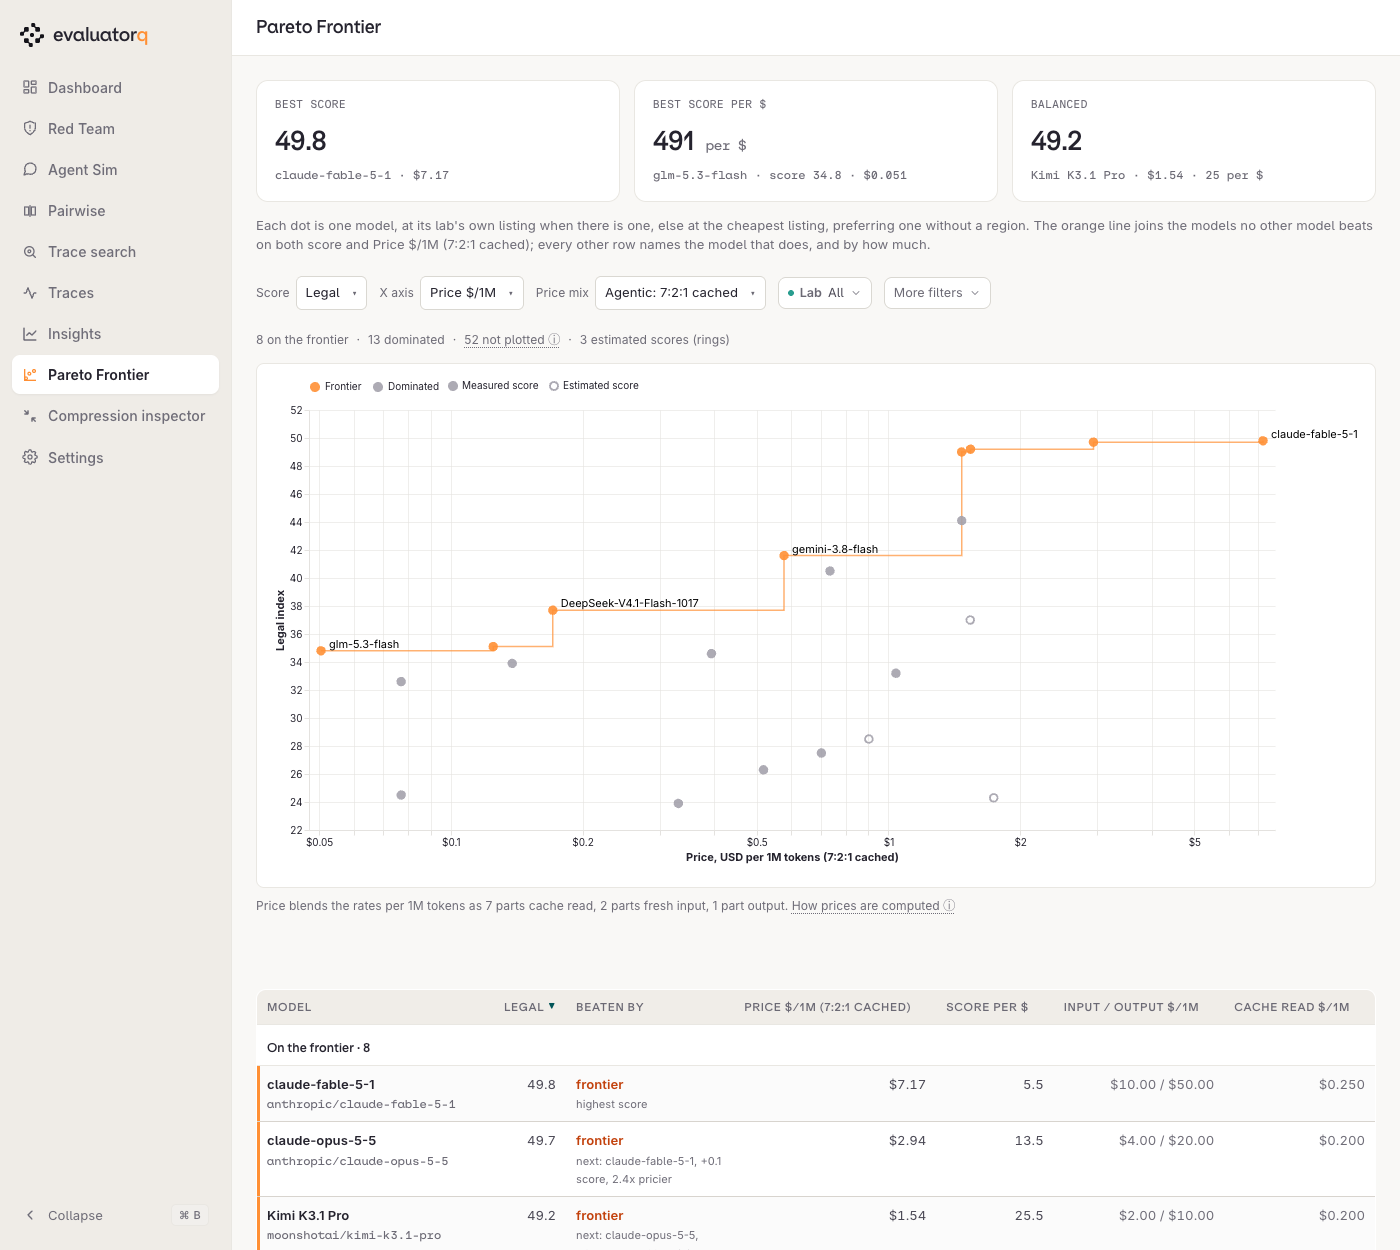
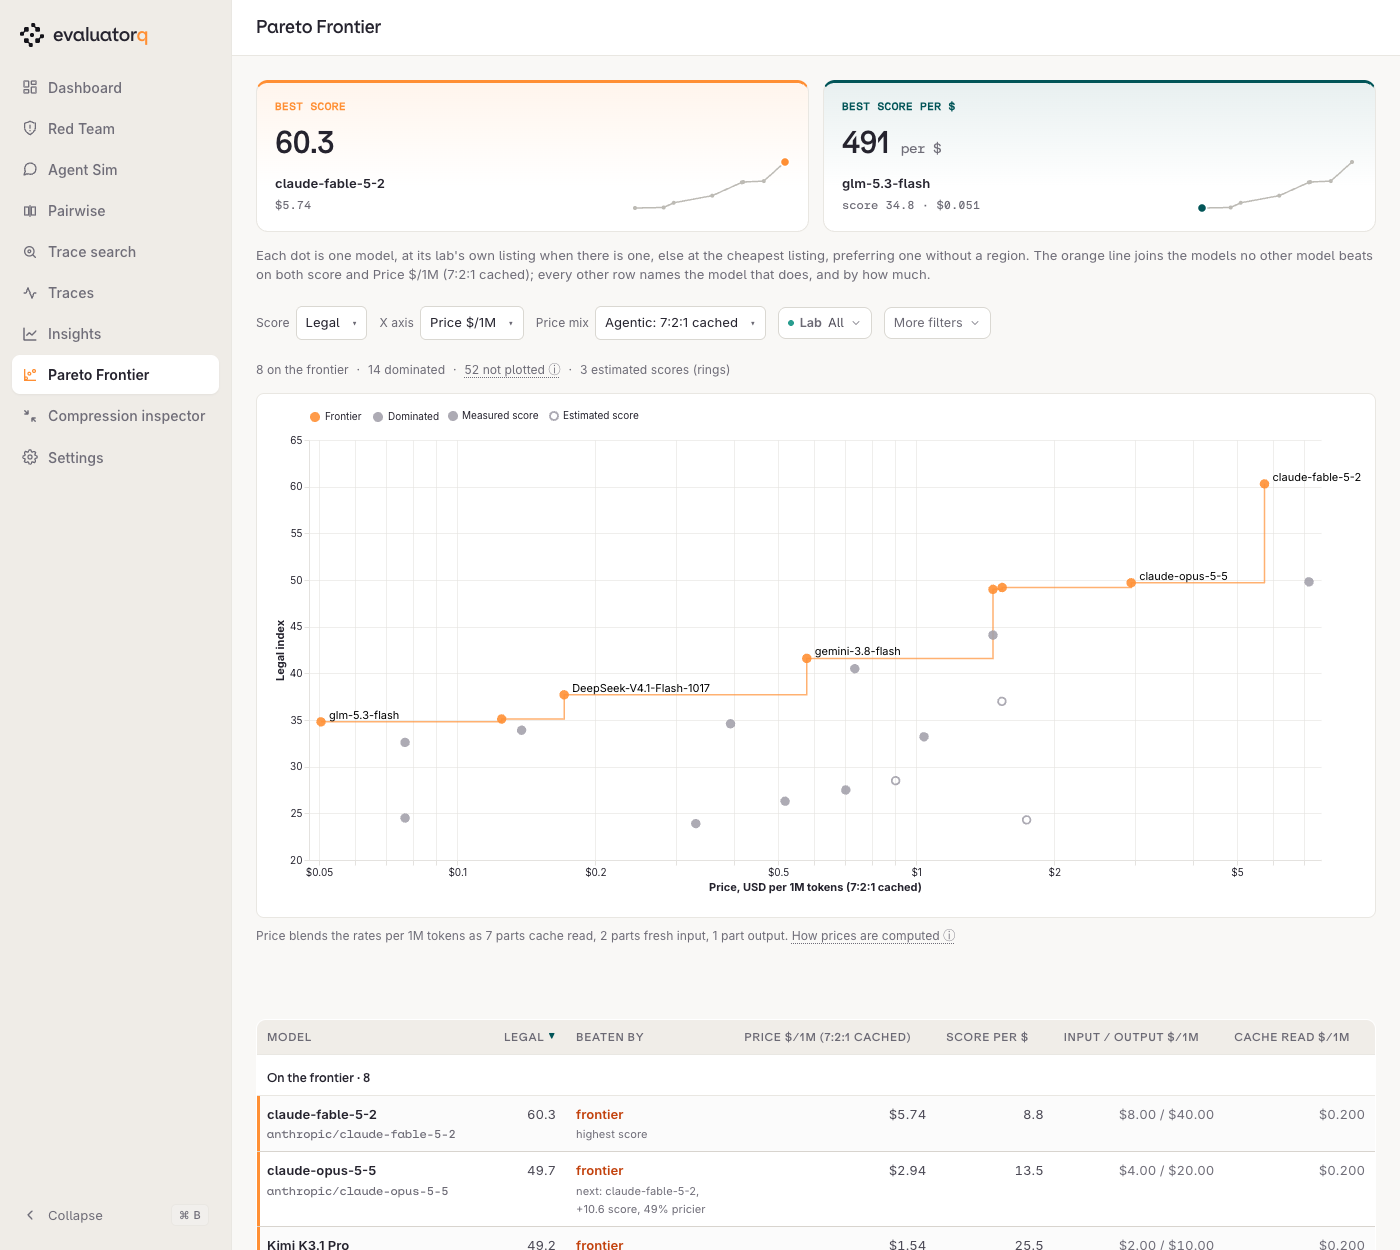
feat(dashboard): give the Pareto answer cards an accent colour and a frontier sketch
Each card gets its own accent stripe and tint, names its model on its own line, and draws a small sketch of the frontier with the card's model marked. Screenshots retaken against today's catalogue.

diff --git a/src/evaluatorq/dashboard/models_views.py b/src/evaluatorq/dashboard/models_views.py
@@ -37,7 +37,7 @@ from evaluatorq.common.reports import esc
 from evaluatorq.common.reports.vega import render_embed, vl_frontier_scatter
 from evaluatorq.dashboard import model_choices
 from evaluatorq.dashboard.auth import auth_or_reason
-from evaluatorq.dashboard.controls import FILTER_CHEVRON, chip, dropdown, pick_row, range_control, rich_pick, stat_tile
+from evaluatorq.dashboard.controls import FILTER_CHEVRON, chip, dropdown, pick_row, range_control, rich_pick
 from evaluatorq.dashboard.report_kit import tag
 from evaluatorq.dashboard.shell import page
 from evaluatorq.dashboard.tables import flipped, sortable_th
@@ -781,50 +781,68 @@ def _balanced(result: ParetoResult, best: ParetoPoint, value: ParetoPoint | None
     return knee if knee is not None and gap(knee) > 0 else None
 
 
+def _spark(result: ParetoResult, mark: ParetoPoint) -> str:
+    """A small sketch of the frontier with *mark* highlighted, on the chart's own axes (log price, linear speed)."""
+    pts = sorted(result.frontier, key=lambda p: p.x)
+    log = result.x == 'price' and all(p.x > 0 for p in pts)
+    xs = [math.log(p.x) if log else p.x for p in pts]
+    lo_x, hi_x = min(xs), max(xs)
+    lo_y, hi_y = min(p.score for p in pts), max(p.score for p in pts)
+    w, h, pad = 160.0, 56.0, 5.0
+
+    def at(x: float, y: float) -> tuple[float, float]:
+        fx = (x - lo_x) / (hi_x - lo_x) if hi_x > lo_x else 0.5
+        fy = (y - lo_y) / (hi_y - lo_y) if hi_y > lo_y else 0.5
+        return pad + fx * (w - 2 * pad), h - pad - fy * (h - 2 * pad)
+
+    coords = [at(x, p.score) for x, p in zip(xs, pts, strict=True)]
+    line = ' '.join(f'{x:.1f},{y:.1f}' for x, y in coords)
+    dots = ''.join(f'<circle cx="{x:.1f}" cy="{y:.1f}" r="2"/>' for x, y in coords)
+    mx, my = coords[pts.index(mark)]
+    return (
+        f'<svg class="models-card-spark" viewBox="0 0 {w:g} {h:g}" aria-hidden="true">'
+        f'<polyline points="{line}"/><g>{dots}</g>'
+        f'<circle class="is-mark" cx="{mx:.1f}" cy="{my:.1f}" r="4.5"/></svg>'
+    )
+
+
+def _card(kind: str, label: str, value: str, p: ParetoPoint, result: ParetoResult, sub: str, unit: str = '') -> str:
+    """One answer card: an accent stripe per kind, the value, the model by name and where it sits on the frontier."""
+    unit_html = f'<span class="stat-unit">{esc(unit)}</span>' if unit else ''
+    return (
+        f'<div class="stat-tile models-card is-{kind}"><div class="models-card-head">'
+        f'<div class="stat-label">{esc(label)}</div>{_spark(result, p)}</div>'
+        f'<div class="stat-value">{esc(value)}{unit_html}</div>'
+        f'<div class="models-card-model">{esc(_name(p.model))}</div><div class="stat-sub">{esc(sub)}</div></div>'
+    )
+
+
 def _answer_cards(result: ParetoResult, min_score: float) -> str:
     """Three quick answers: the best score, the best score per dollar and, on the price axis, the knee of the
     frontier between them; else the best x at the floor."""
     if not result.frontier:
         return ''
     best = max(result.frontier, key=lambda p: p.score)
-    cards = [
-        stat_tile(label='Best score', value=f'{best.score:.1f}', sub=f'{_name(best.model)} · {_x_text(best, result)}')
-    ]
+    cards = [_card('score', 'Best score', f'{best.score:.1f}', best, result, _x_text(best, result))]
     valued = [p for p in result.frontier if p.pareto_score is not None]
     value = max(valued, key=lambda p: cast('float', p.pareto_score), default=None)
     if value is not None:
         per_dollar = cast('float', value.pareto_score)
-        cards.append(
-            stat_tile(
-                label='Best score per $',
-                # Whole numbers would print a score per $ under 0.5 as 0, so small values keep one decimal.
-                value=f'{per_dollar:,.0f}' if per_dollar >= 10 else f'{per_dollar:.1f}',
-                unit=' per $',
-                sub=f'{_name(value.model)} · score {value.score:.1f} · {_x_text(value, result)}',
-            )
-        )
+        # Whole numbers would print a score per $ under 0.5 as 0, so small values keep one decimal.
+        shown = f'{per_dollar:,.0f}' if per_dollar >= 10 else f'{per_dollar:.1f}'
+        sub = f'score {value.score:.1f} · {_x_text(value, result)}'
+        cards.append(_card('value', 'Best score per $', shown, value, result, sub, unit=' per $'))
     balanced = _balanced(result, best, value)
     if balanced is not None:
-        cards.append(
-            stat_tile(
-                label='Balanced',
-                value=f'{balanced.score:.1f}',
-                sub=f'{_name(balanced.model)} · {_x_text(balanced, result)} · '
-                f'{cast("float", balanced.pareto_score):,.0f} per $',
-            )
-        )
+        sub = f'{_x_text(balanced, result)} · {cast("float", balanced.pareto_score):,.0f} per $'
+        cards.append(_card('balanced', 'Balanced', f'{balanced.score:.1f}', balanced, result, sub))
         return f'<div class="stat-band models-cards">{"".join(cards)}</div>'
     cheapest = min(result.frontier, key=lambda p: result.x_spec.best_first(p.x))
     # A card naming the same model as another one adds nothing: one frontier model would fill every card.
     if cheapest is not value and cheapest is not best:
         label = _AXIS_TEXT[result.x].best + (f' at score ≥ {min_score:g}' if min_score > 0 else '')
-        cards.append(
-            stat_tile(
-                label=label,
-                value=_x_text(cheapest, result),
-                sub=f'{_name(cheapest.model)} · score {cheapest.score:.1f}',
-            )
-        )
+        sub = f'score {cheapest.score:.1f}'
+        cards.append(_card('cheapest', label, _x_text(cheapest, result), cheapest, result, sub))
     return f'<div class="stat-band models-cards">{"".join(cards)}</div>'
 
 

diff --git a/tests/unit/test_models.py b/tests/unit/test_models.py
@@ -816,21 +816,23 @@ class TestDashboardPage:
     ) -> None:
         tiny = model('z/tiny', 10.5, 0.05, 0.05)
         text = self._models_text(client, monkeypatch, [*fake_catalogue, tiny], '/models')
-        assert text.count('class="stat-tile"') == 3
+        assert text.count('class="stat-tile models-card') == 3
         assert 'Best score' in text and '50.0' in text and 'a/strong' in text
         # c/cheap: (20 - 10) / $0.35 blended under the default mix = 28.6, shown as 29.
         assert 'per $' in text
-        assert re.search(r'Best score per \$</div><div class="stat-value">29<span class="stat-unit"> per \$</span>', text)
+        assert re.search(r'Best score per \$</div><svg[^>]*>.*?</svg></div><div class="stat-value">29<span class="stat-unit"> per \$</span>', text)
         # b/mid sits above the line from c/cheap to a/strong, so the third card is the knee, not the cheapest model.
         cards = text.split('models-cards', 1)[1].split('models-intro', 1)[0]
         assert 'Balanced' in cards and 'b/mid' in cards and 'Cheapest' not in cards
+        # Each card sketches the frontier and marks its own model once.
+        assert cards.count('models-card-spark') == 3 and cards.count('class="is-mark"') == 3
 
     def test_balanced_card_names_the_knee_when_the_cheapest_is_the_best_value(
         self, client: Any, monkeypatch: pytest.MonkeyPatch, fake_catalogue: list[ScoredModel]
     ) -> None:
         text = self._models_text(client, monkeypatch, fake_catalogue, '/models')
         cards = text.split('models-cards', 1)[1].split('models-intro', 1)[0]
-        assert cards.count('class="stat-tile"') == 3
+        assert cards.count('class="stat-tile models-card') == 3
         assert 'Balanced' in cards and 'b/mid' in cards and 'Cheapest' not in cards
 
     def test_balanced_is_the_frontier_model_furthest_above_the_line(self) -> None:
@@ -1162,7 +1164,7 @@ class TestDashboardPage:
     ) -> None:
         only = model('a/only', 40.0, 1.0, 1.0, output_tokens_per_second=80.0)
         text = self._models_text(client, monkeypatch, [only], '/models?x=output_speed')
-        assert text.count('class="stat-tile"') == 1
+        assert text.count('class="stat-tile models-card') == 1
         assert 'Fastest' not in text.split('models-cards', 1)[1].split('models-intro', 1)[0]
 
     def test_score_per_dollar_card_keeps_a_decimal_below_ten(
@@ -1171,7 +1173,7 @@ class TestDashboardPage:
         # (10.4 - 10) / $1.00 = 0.4 per $; whole numbers would show it as 0.
         near_floor = model('a/near', 10.4, 1.0, 1.0)
         text = self._models_text(client, monkeypatch, [near_floor], '/models')
-        assert re.search(r'Best score per \$</div><div class="stat-value">0\.4<span class="stat-unit"> per \$</span>', text)
+        assert re.search(r'Best score per \$</div><svg[^>]*>.*?</svg></div><div class="stat-value">0\.4<span class="stat-unit"> per \$</span>', text)
 
     def test_more_filters_labels_match_the_toolbar_labels(self) -> None:
         import tinycss2

diff --git a/src/evaluatorq/dashboard/styles.py b/src/evaluatorq/dashboard/styles.py
@@ -4250,6 +4250,19 @@ _MODELS_CSS = """
 /* Anchored under its button where supported; elsewhere the popover keeps the browser's centred default. */
 @supports (position-area: bottom) { .models-pop { inset: auto; margin: 6px 0 0; position-area: bottom span-right; position-try-fallbacks: flip-block, flip-inline; } }
 .models-cards { grid-template-columns: repeat(auto-fit, minmax(220px, 1fr)); }
+.models-card { --c: var(--orange-500); position: relative; overflow: hidden; border-top: 3px solid var(--c); background: linear-gradient(180deg, color-mix(in srgb, var(--c) 9%, var(--surface-card)) 0%, var(--surface-card) 70%); }
+.models-card.is-value { --c: var(--teal-600); }
+.models-card.is-balanced { --c: var(--amber-600); }
+.models-card.is-cheapest { --c: var(--green-600); }
+.models-card .stat-label { color: var(--c); font-weight: 600; }
+.models-card .stat-value { font-size: 30px; margin-top: 2px; }
+.models-card-head { display: flex; justify-content: space-between; align-items: flex-start; gap: 8px; }
+.models-card-spark { position: absolute; right: 18px; bottom: 18px; width: 160px; height: 56px; overflow: visible; }
+.models-card-spark polyline { fill: none; stroke: var(--border-strong); stroke-width: 1.5; stroke-linejoin: round; }
+.models-card-spark g circle { fill: var(--border-strong); }
+.models-card-spark .is-mark { fill: var(--c); stroke: var(--surface-card); stroke-width: 1.5; }
+.models-card-model { margin-top: 6px; font-size: 13px; font-weight: 600; color: var(--text-strong); white-space: nowrap; overflow: hidden; text-overflow: ellipsis; }
+.models-card .stat-sub { margin-top: 2px; }
 .models-group th { padding: 14px 10px 6px; font-size: 12px; font-weight: 600; color: var(--text-strong); background: none; text-align: left; border-bottom: 1px solid var(--border-subtle); text-transform: none; letter-spacing: 0; }
 .models-row.is-excluded td { color: var(--text-faint); }
 .models-alert { padding: 12px 14px; border: 1px solid var(--red-100); border-radius: 8px; background: var(--red-50); color: var(--red-700); font-size: 13px; }

diff --git a/docs/dashboard.md b/docs/dashboard.md
@@ -477,7 +477,7 @@ Download links respect the currently active filter state — the CSV/JSON export
 
 The **Pareto Frontier** page (`/models`) plots every model in the Orq catalogue as one dot, score against a blended price, and joins the models nothing beats with an orange line: the Pareto frontier. It reads the live catalogue, so it needs the same Orq account as trace search. Without one, the sidebar item is greyed out and the page says how to connect.
 
-Answer cards above the chart give the three quick answers, each for the models on the frontier:
+Answer cards above the chart give up to three quick answers, each for the models on the frontier. Each card names its model and carries a small sketch of the frontier with that model's dot marked in the card's colour:
 
 | Card | What it shows |
 |---|---|
@@ -488,7 +488,7 @@ Answer cards above the chart give the three quick answers, each for the models o
 
 **Score per $** is the points a model scores above the minimum score, divided by its blended price: `(score - minimum score) / price`. A model exactly at the minimum score gets 0, and with the minimum score at `0` it is the plain score per dollar. It is the same number as the `Score per $` column of `eq models pareto` (see [Model Pareto frontier](model-pareto.md#the-frontier-in-one-command)).
 
-![Pareto Frontier page on the default agentic price mix and minimum score of 10: the Best score, Best score per $ and Balanced cards above the chart, with estimated scores drawn as rings](assets/dashboard/models-01-frontier.png)
+![Pareto Frontier page on the default agentic price mix and minimum score of 10: the Best score and Best score per $ cards above the chart, each sketching the frontier with its model marked, and estimated scores drawn as rings](assets/dashboard/models-01-frontier.png)
 
 Filled dots are measured scores and rings are scores Orq estimated; the legend above the chart names both. Tick **Score per $ lines** in **More filters** to draw faint dashed guide curves on the price axis, each labelled with its Score per $, such as **50 per $**. Every model on one curve has the same Score per $, so a dot above a curve gives more score per dollar than the curve's label. The page draws every round value (1, 2, 5, 10, 20, 50 and so on) inside the range of the plotted models, up to eight; on a wider range it thins them to eight spread across it. The other x axes have no guides, because Score per $ is defined only against price.
 

diff --git a/docs/assets/dashboard/README.md b/docs/assets/dashboard/README.md
@@ -39,13 +39,13 @@ Older screenshots use `sim:refund-agent-fixed` — 10 personas × 5 scenarios = 
 
 ## Models — `models-*.png`
 
-Captured on 2026-11-23 against the live Orq catalogue (72 models after keeping one listing per model), 1400×1250 viewport, light theme, headless Chromium, with `eq dashboard` on the branch's defaults: agentic price mix (7:2:1 cached), minimum score 10. `models-01` and `models-02` show the top of the page; `models-03` is scrolled to the table.
+Captured on 2026-11-24 against the live Orq catalogue, 1400×1250 viewport, light theme, headless Chromium, with `eq dashboard` on the branch's defaults: agentic price mix (7:2:1 cached), minimum score 10. `models-01` and `models-02` show the top of the page; `models-03` is scrolled to the table.
 
 | File | Page |
 |---|---|
-| `models-01-frontier.png` | Pareto Frontier (`/models`) — the Best score, Best score per $ and Balanced answer cards, the Score, X axis, Price mix, Lab and More filters controls, intelligence index against the agentic blended price with the frontier line and the Measured score / Estimated score legend, and the top of the table with its Score per $ column |
+| `models-01-frontier.png` | Pareto Frontier (`/models`) — the Best score and Best score per $ answer cards, each with a small sketch of the frontier marking its model (a Balanced card joins them when a frontier model sits well above the line between those two), the Score, X axis, Price mix, Lab and More filters controls, intelligence index against the agentic blended price with the frontier line and the Measured score / Estimated score legend, and the top of the table with its Score per $ column |
 | `models-02-legal.png` | Pareto Frontier (`/models?index=legal`) — the legal index, where about half the models have no score and are not plotted |
-| `models-03-fallback.png` | Pareto Frontier (`/models?lab=alibaba`), scrolled to the table — four Qwen cache-read rates tagged **input**, billed at the input rate because their cards list no cache price |
+| `models-03-fallback.png` | Pareto Frontier (`/models?lab=alibaba`), scrolled to the table — two Qwen cache-read rates tagged **input**, billed at the input rate because their cards list no cache price |
 
 ## Pending re-shoot
 
